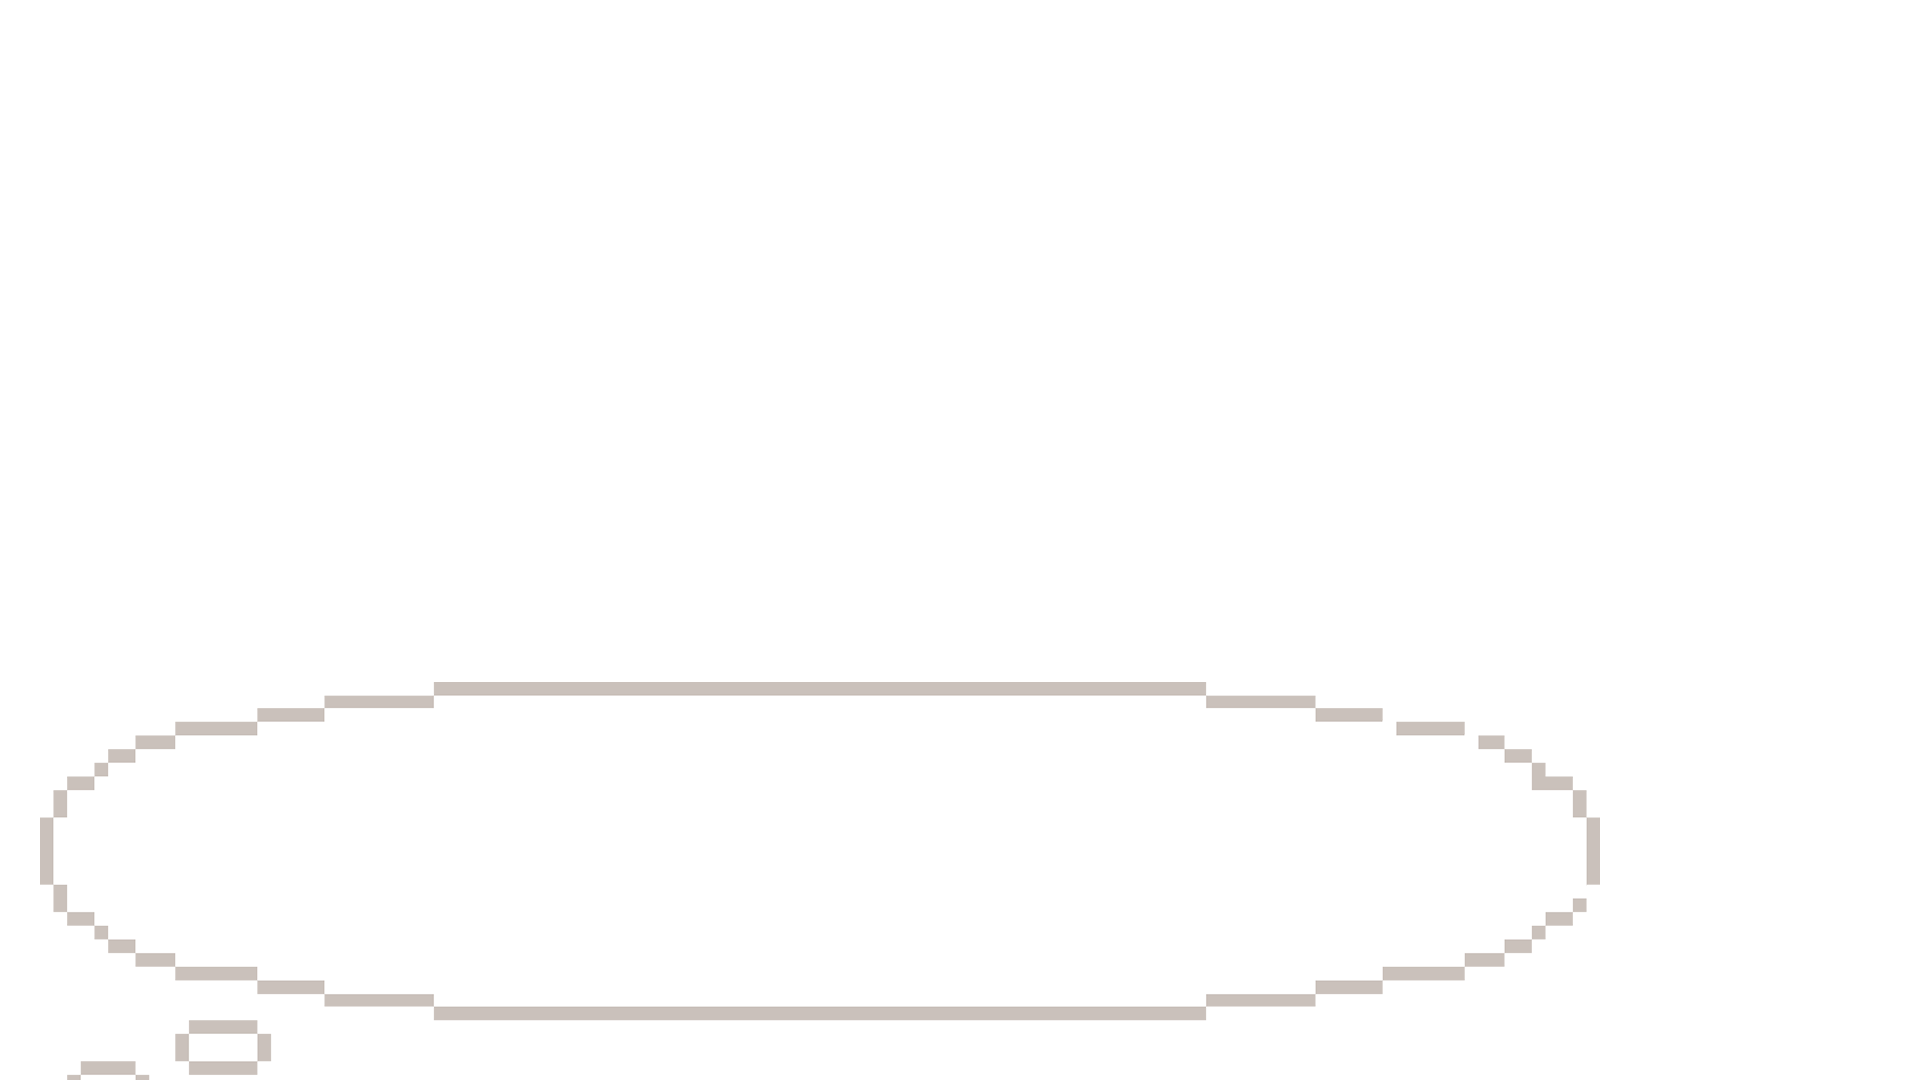
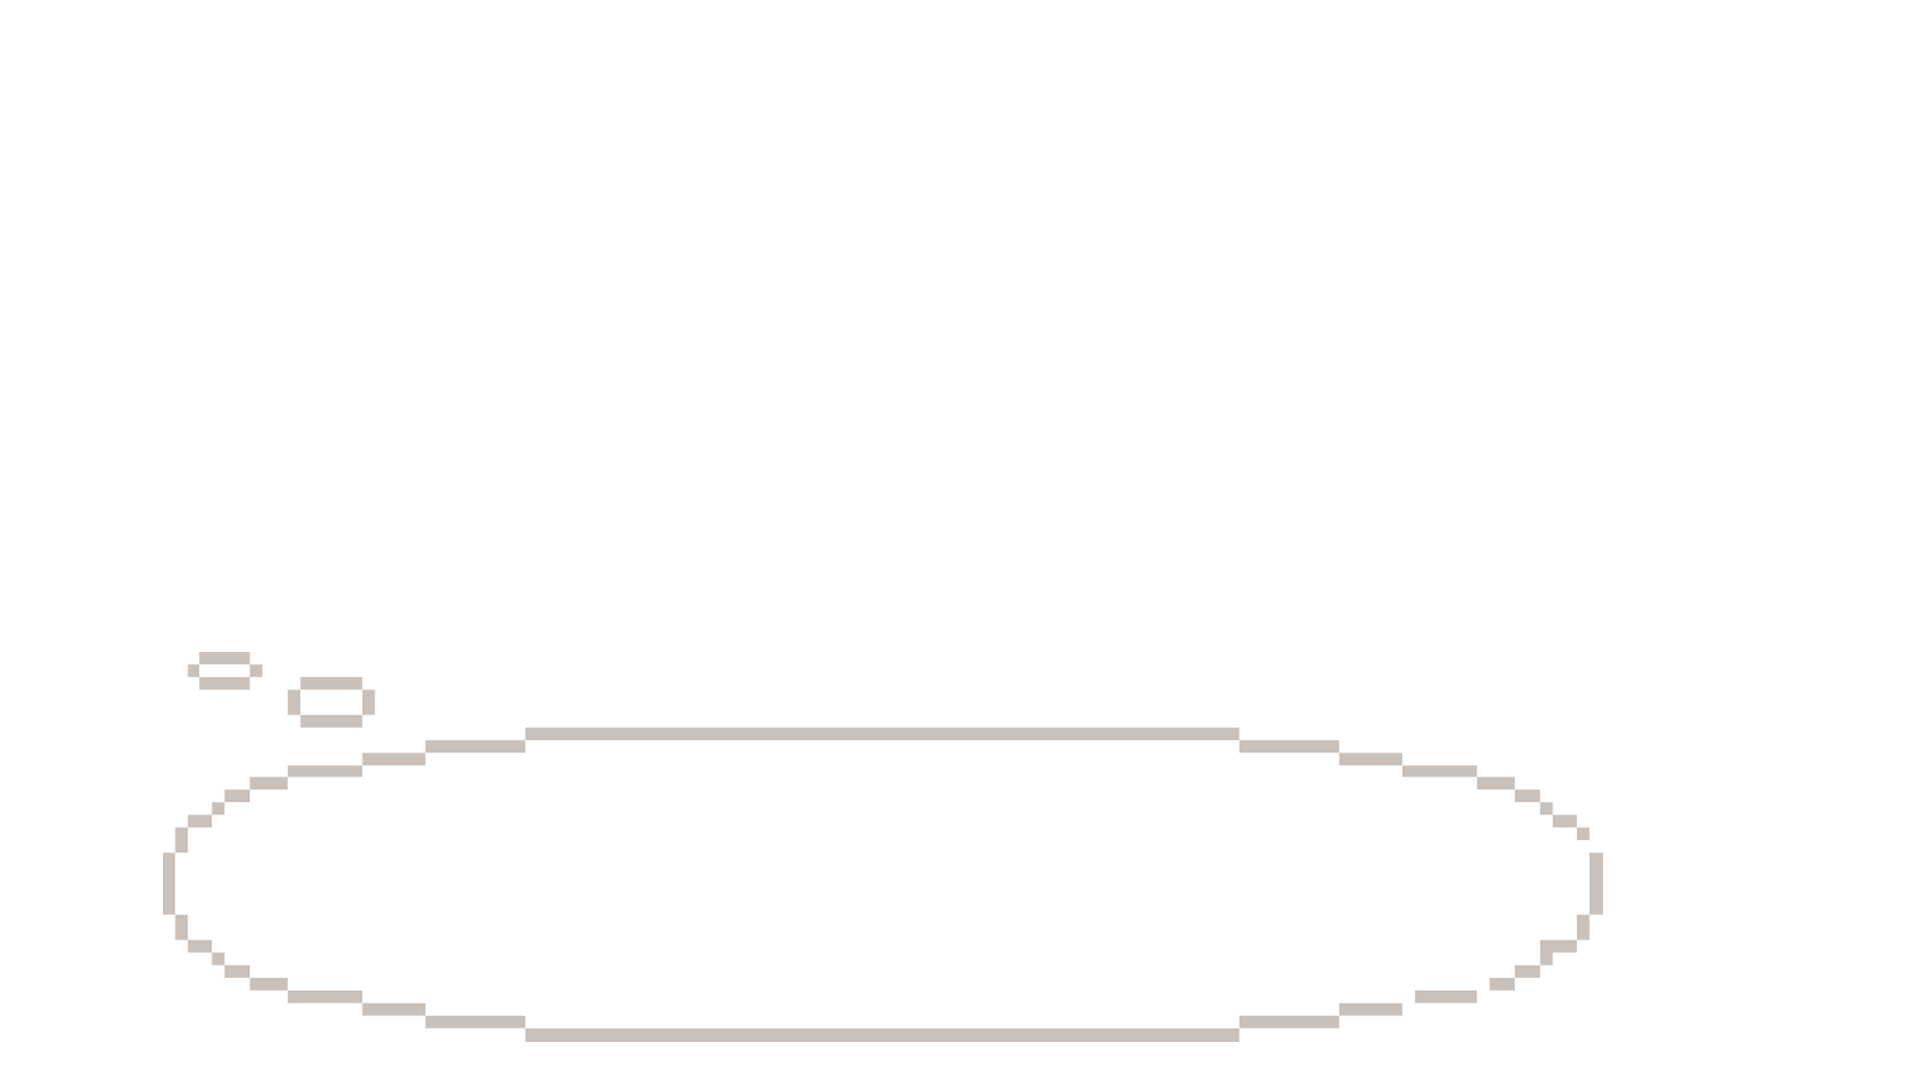
dialog bubble fixed

Changed region(s): [[0.0312, 0.5806, 0.8438, 1.0], [0.0, 0.7333, 0.0312, 0.825], [0.0312, 0.7028, 0.0625, 0.7333]]

diff --git a/Game Project/Assets/Scripts/Chapter1/FrameController.cs b/Game Project/Assets/Scripts/Chapter1/FrameController.cs
@@ -62,7 +62,7 @@ public class FrameController : MonoBehaviour
             
             textMeshProUGUI.color = new Color(textColor.r, textColor.g, textColor.b, frameColor.a);
             textMeshProNameTag.color = new Color(nameTagColor.r, nameTagColor.g, nameTagColor.b, frameColor.a);
-            NextBtnImg.color = new Color(btnColor.r, btnColor.g, btnColor.b, frameColor.a);
+            // NextBtnImg.color = new Color(btnColor.r, btnColor.g, btnColor.b, frameColor.a);
         }
         else {
             Color frameColor = frame.color;
@@ -79,7 +79,7 @@ public class FrameController : MonoBehaviour
             
             textMeshProUGUI.color = new Color(textColor.r, textColor.g, textColor.b, frameColor.a);
             textMeshProNameTag.color = new Color(nameTagColor.r, nameTagColor.g, nameTagColor.b, frameColor.a);
-            NextBtnImg.color = new Color(btnColor.r, btnColor.g, btnColor.b, frameColor.a);
+            // NextBtnImg.color = new Color(btnColor.r, btnColor.g, btnColor.b, frameColor.a);
         }
     }
 
